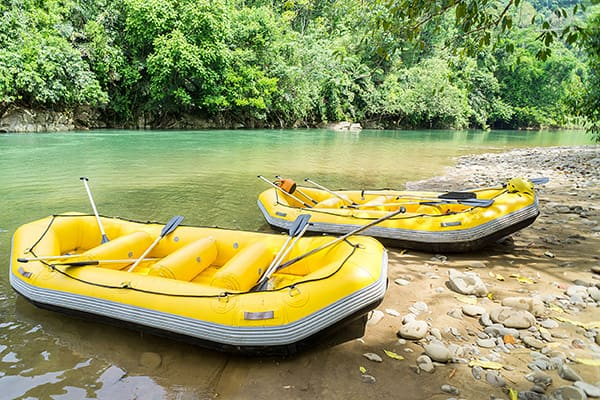
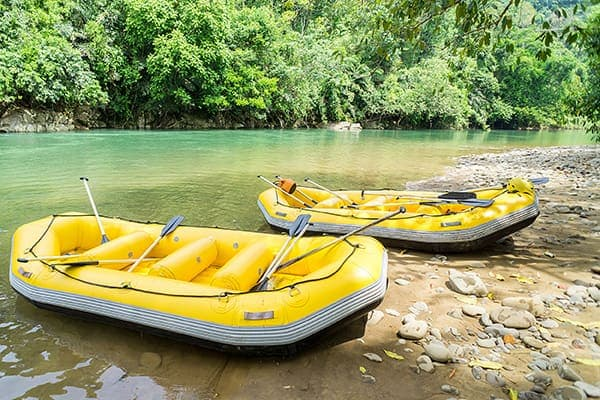
W04 Rafting Site

diff --git a/wwr/about.html b/wwr/about.html
@@ -43,7 +43,8 @@
                     eligendi!
                     Quibusdam et nostrum voluptates ad, adipisci exercitationem? Voluptatibus, vero.
                 </p>
-                <img src="images/history-image.jpg" width="300" alt="Image for the History">
+                <img src="images/history-image.jpg" width="300"
+                  alt="Two yellow rafting boats rest on a calm river">
                 <p>Lorem ipsum dolor sit, amet consectetur adipisicing elit. Repellat ipsam tempora
                     perspiciatis voluptatem sit placeat, et nisi! Impedit obcaecati officiis
                     eligendi!
@@ -58,23 +59,23 @@
             <h2>Adventure Awaits You!</h2>
             <div class="adventure">
                 <figure>
-                    <img src="images/rafting-1.jpg" alt="first rafting image">
+                    <img src="images/rafting-1.jpg" alt="Kayak Paddles in river">
                     <figcaption>Kayak Paddle</figcaption>
                 </figure>
                 <figure>
-                    <img src="images/rafting-2.jpg" alt="second rafting image">
+                    <img src="images/rafting-2.jpg" alt="Rafting Equipment">
                     <figcaption>Rafting Equipment</figcaption>
                 </figure>
                 <figure>
-                    <img src="images/rafting-3.jpg" alt="third rafting image">
+                    <img src="images/rafting-3.jpg" alt="Rafting Adventure with friends">
                     <figcaption>Rafting Adventure</figcaption>
                 </figure>
                 <figure>
-                    <img src="images/rafting-4.jpg" alt="fourth rafting image">
+                    <img src="images/rafting-4.jpg" alt="River Rafting Action">
                     <figcaption>River Rafting Action</figcaption>
                 </figure>
                 <figure>
-                    <img src="images/rafting-5.jpg" alt="fifth rafting image">
+                    <img src="images/rafting-5.jpg" alt="Rafting Teamwork on the river">
                     <figcaption>Rafting Teamwork</figcaption>
                 </figure>
             </div>

diff --git a/wwr/styles/rafting.css b/wwr/styles/rafting.css
@@ -1,6 +1,6 @@
 :root {
     --primary-color: #fff;
-    --secondary-color: #3886e0;
+    --secondary-color: #143357;
     --accent1-color: #2665DB;
     --accent2-color: #fff;
     --heading-font: "Arial", sans-serif;
